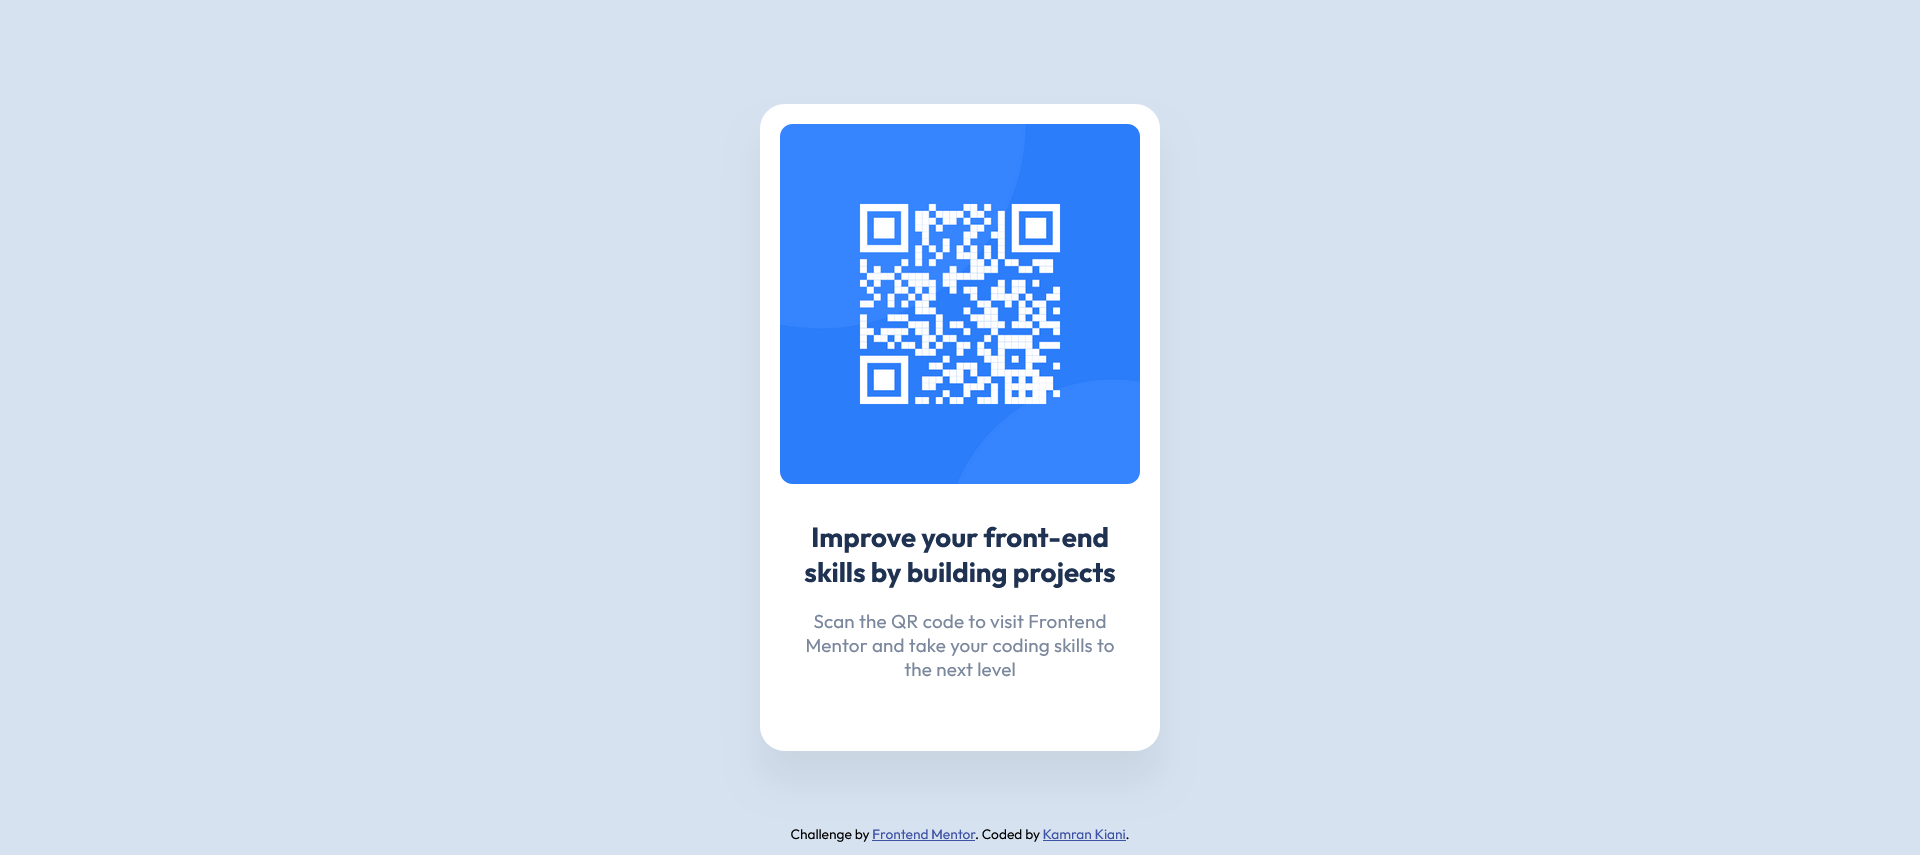
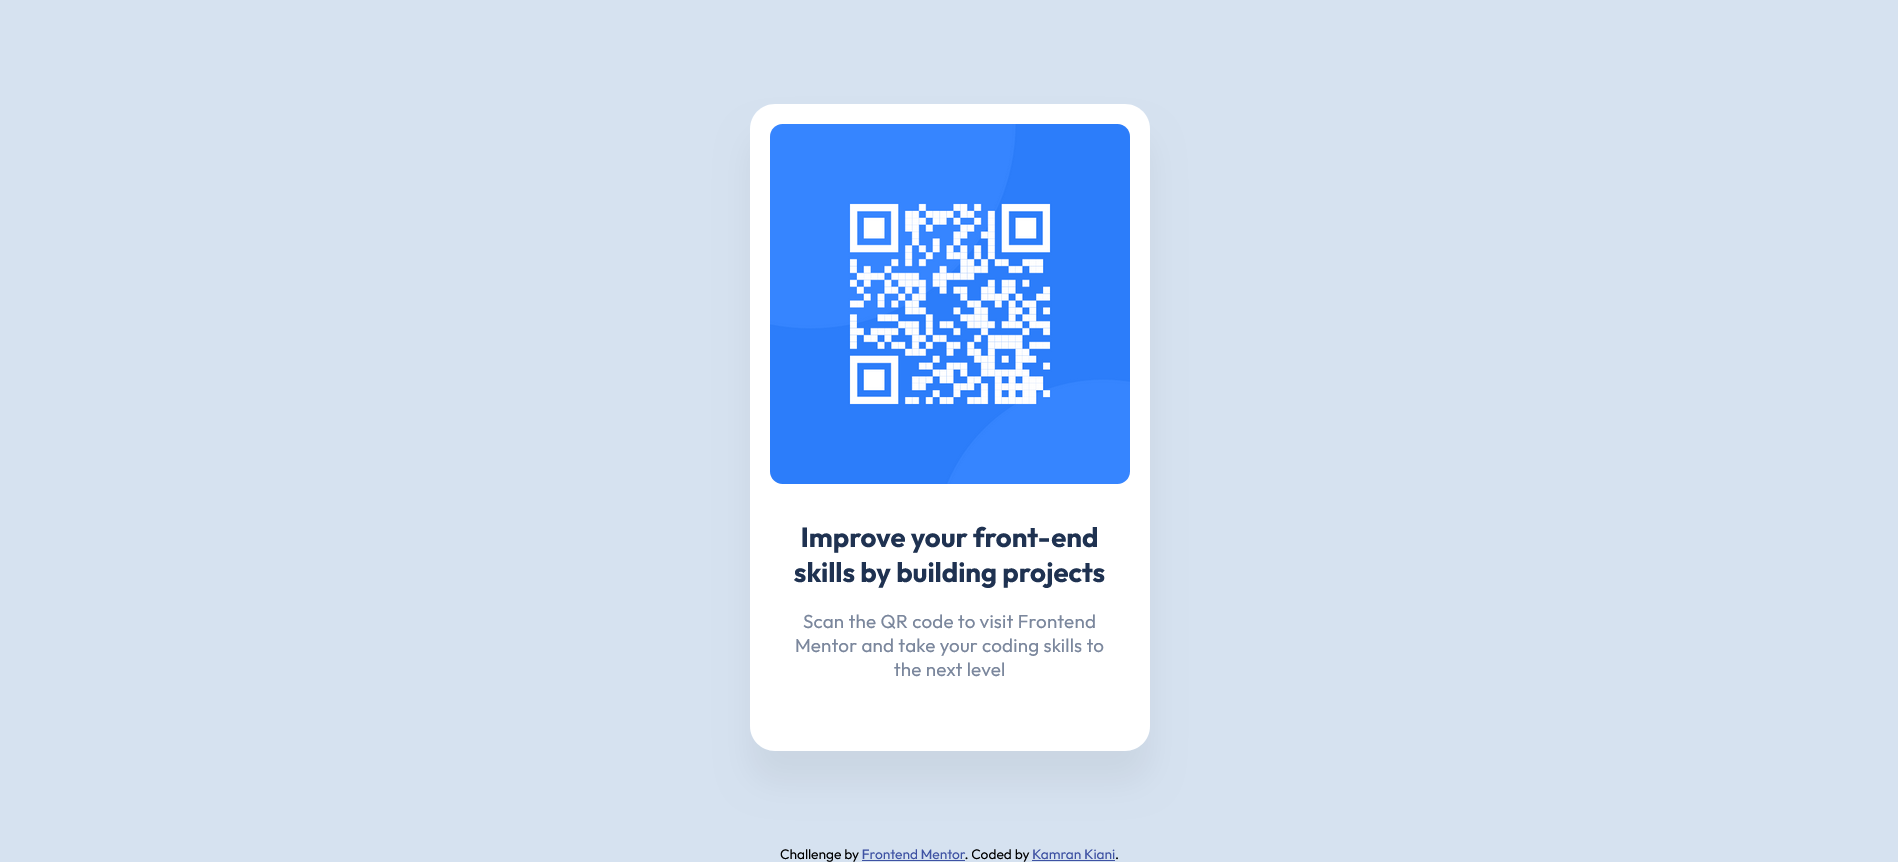
minor changes

diff --git a/css/style.css b/css/style.css
@@ -59,5 +59,5 @@ img {
 .footer{ 
   position: absolute;
   bottom: 0;
-  height: 1.5rem;
+  height: .5rem;
 }
